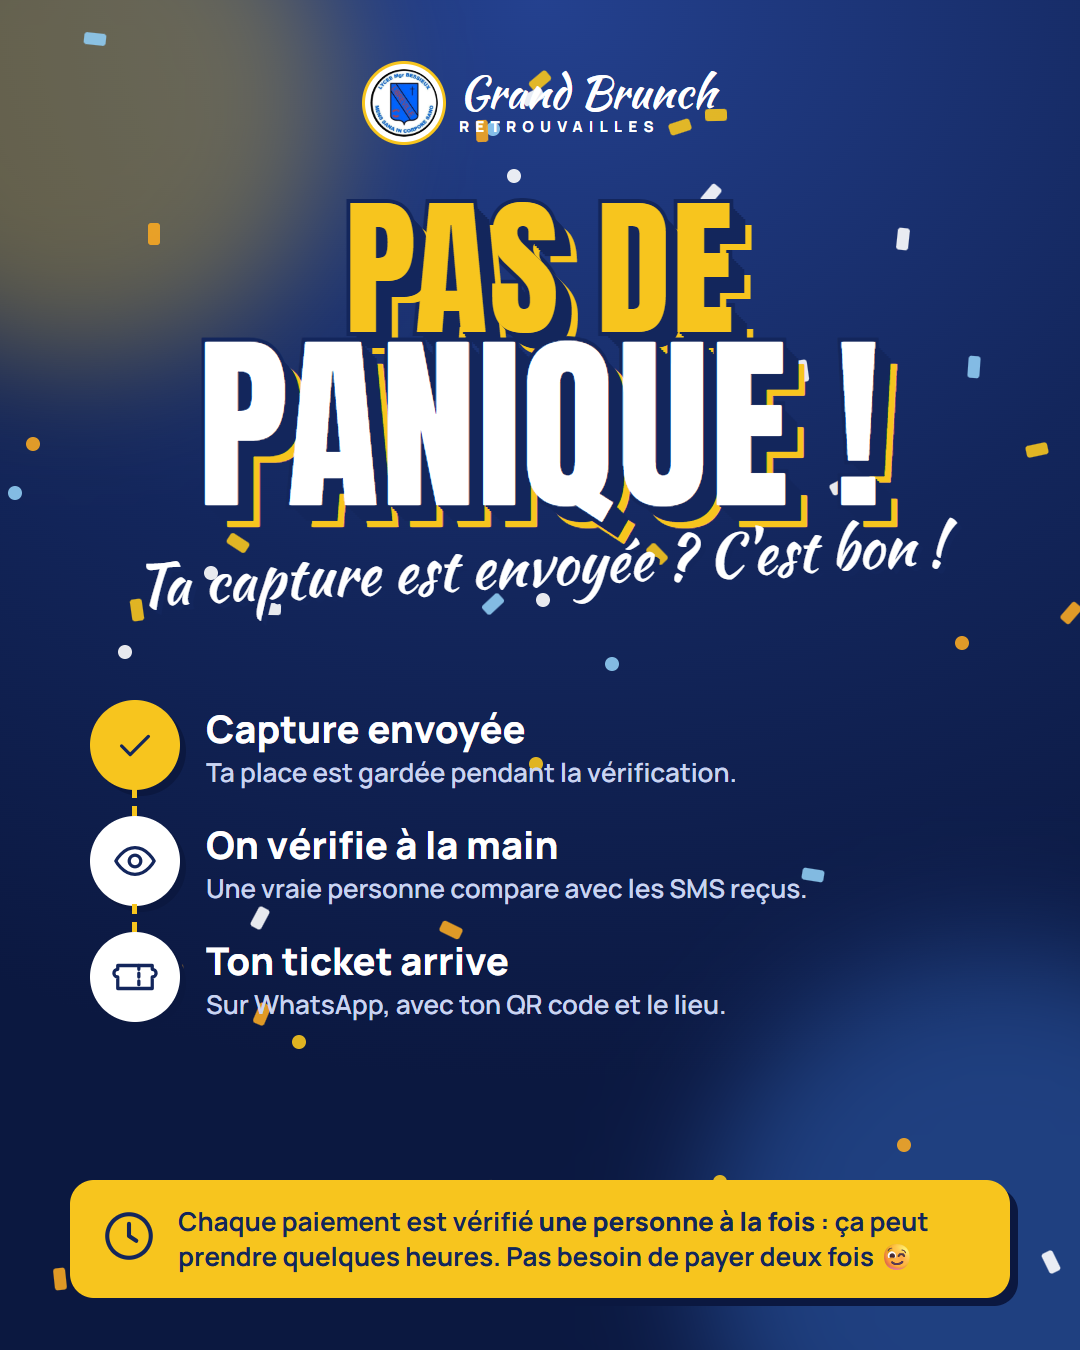
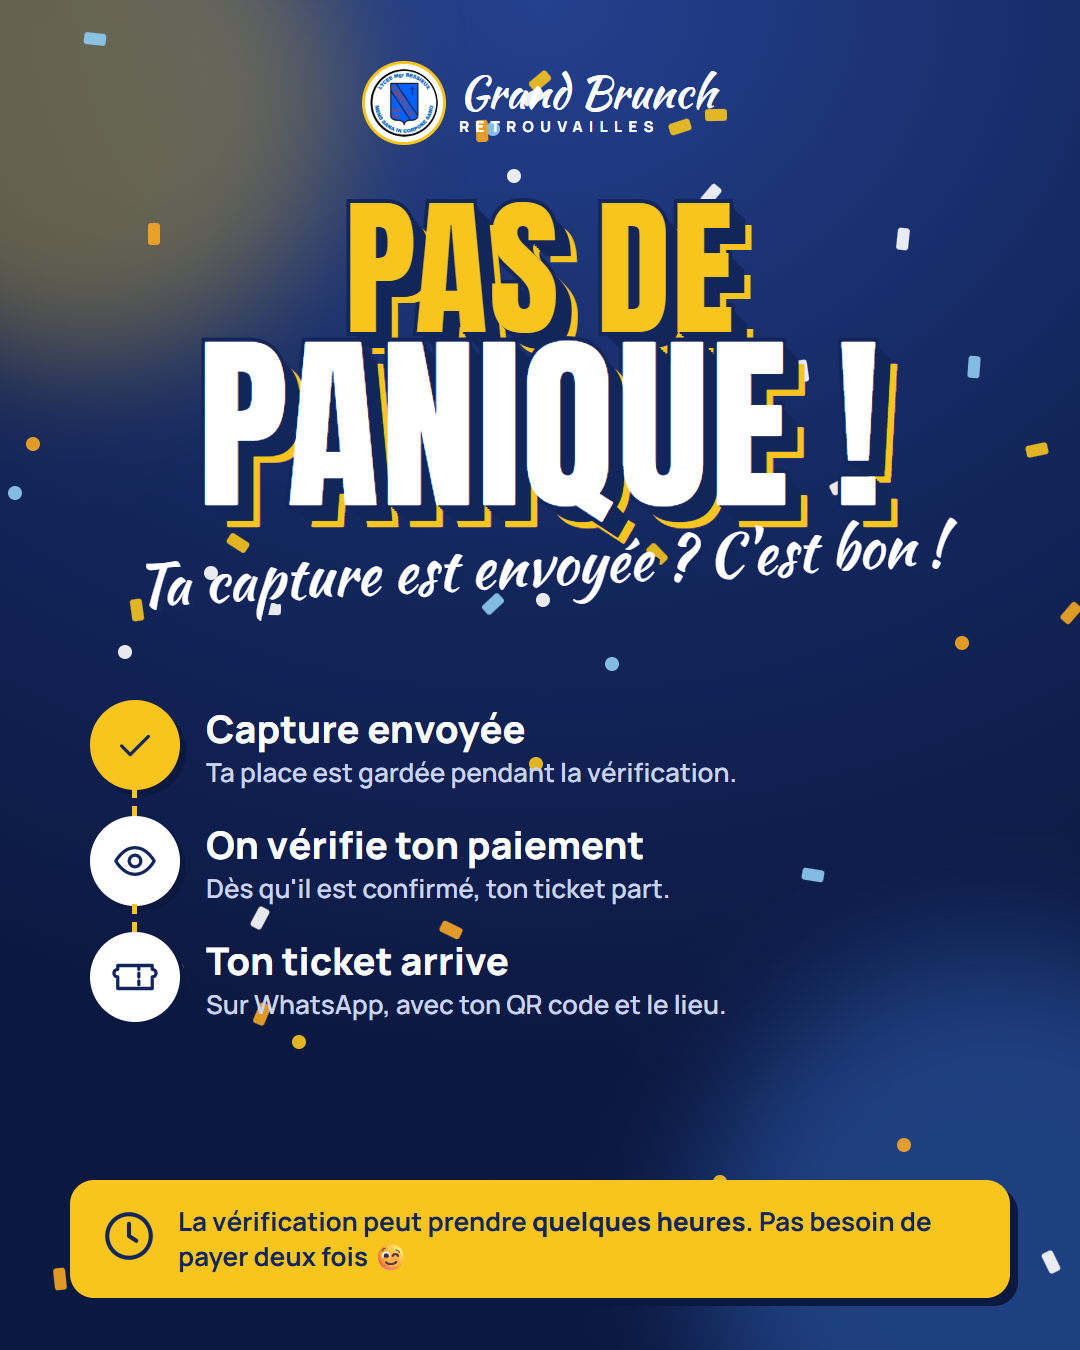
Visuels : nouvelle affiche principale (coucher de soleil, arche bichromie, palmiers) et message simplifié pour « Pas de panique »

Changed region(s): [[0.1833, 0.9022, 0.8556, 0.9644], [0.1833, 0.5911, 0.7333, 0.6844]]

diff --git a/visuels/LEGENDES.md b/visuels/LEGENDES.md
@@ -10,7 +10,7 @@ Le QR code des visuels ouvre le site de réservation.
 | 1er oct. | `02-billetterie-ouverte` + story `S2` | C'est parti ! 🎉 La billetterie du Grand Brunch Retrouvailles est ouverte. 15 000 FCFA, places limitées : réserve vite sur le site (lien en bio). |
 | 1er oct. | `01-affiche-principale` + story `S1` | Promos 2018, 2019 et 2020 : on se retrouve le samedi 31 octobre dès 12h pour le Grand Brunch Retrouvailles ☀ Brunch, cocktails, jeux, animations… et un lieu surprise ! |
 | 2 oct. | `03-comment-avoir-ton-ticket` + story `S3` | Avoir ton ticket, c'est simple : 1. tu réserves sur le site, 2. tu paies par Airtel Money ou Moov Money, 3. tu envoies la capture, 4. tu reçois ton ticket sur WhatsApp ✅ |
-| 4 oct. | `04-pas-de-panique` + story `S4` | Tu as envoyé ta capture et tu attends ton ticket ? Pas de panique 😌 Chaque paiement est vérifié à la main, ta place est gardée pendant ce temps. Ne paie pas deux fois ! |
+| 4 oct. | `04-pas-de-panique` + story `S4` | Tu as envoyé ta capture et tu attends ton ticket ? Pas de panique 😌 On vérifie ton paiement et ta place est gardée pendant ce temps : ton ticket arrive dès qu'il est confirmé. Ne paie pas deux fois ! |
 | 8 oct. | `05-programme` | Au programme : cocktail de bienvenue offert, brunch gourmand, jeux, animations et photos souvenirs 📸 |
 | 12 oct. | `07-cocktail-offert` | Un cocktail offert pour bien commencer les retrouvailles 🍹 Et pour prolonger la fête, des boissons seront en vente sur place 🥂 |
 | 16 oct. | `06-lieu-surprise` | Où se passe le brunch ? 🤫 C'est une surprise : le lieu est révélé uniquement sur ton ticket. |
